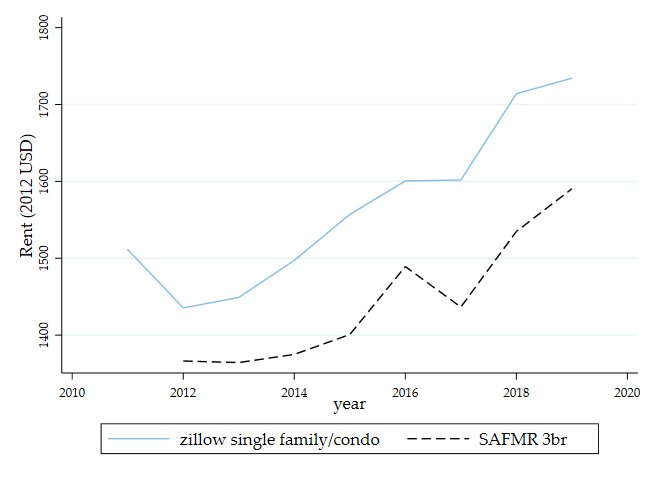
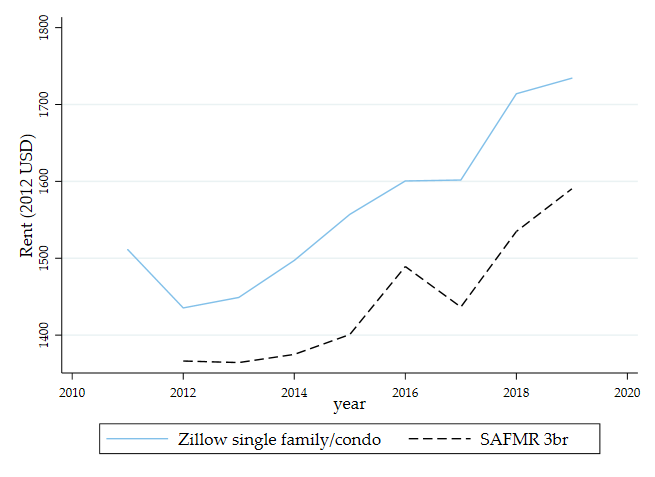
#155 Fixing zillow trends figure legend

Changed region(s): [[0.2748, 0.9099, 0.5802, 0.9392], [0.7328, 0.9099, 0.8855, 0.9392], [0.1527, 0.9099, 0.1832, 0.9392]]

diff --git a/paper_slides/figures/trend_zillow_safmr.tex b/paper_slides/figures/trend_zillow_safmr.tex
@@ -6,12 +6,6 @@
 
 	\includegraphics[width = 0.8\textwidth]
         {zillow_benchmark/output/trend_zillow_safmr_zipcode_m1.png}
-    %%
-    %%  SH: This figure (and folder in general) needs a review. 
-    %%      - Format should be dps
-    %%      - Legend should fit better, and change 'zillow' --> 'Zillow'
-    %%      - We should drop figures we don't need
-    %%
 
     \begin{minipage}{.95\textwidth} \footnotesize
         \vspace{3mm}
